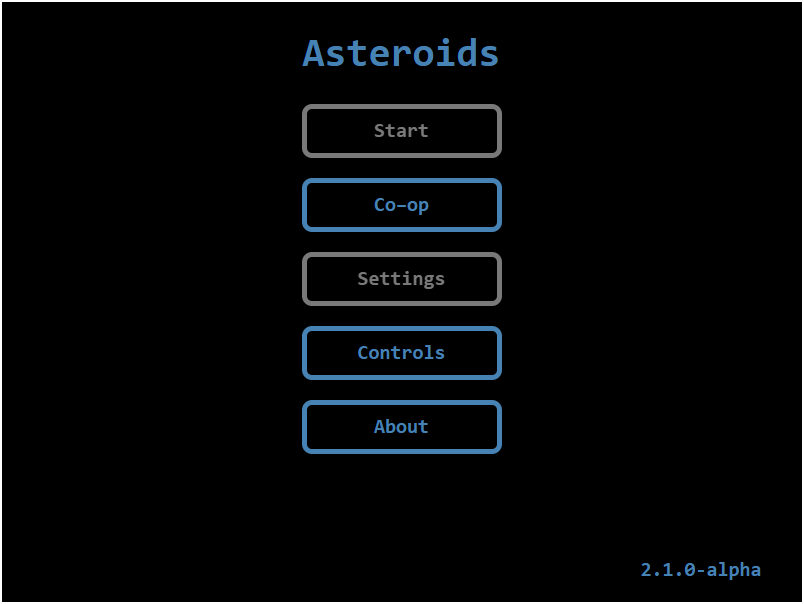
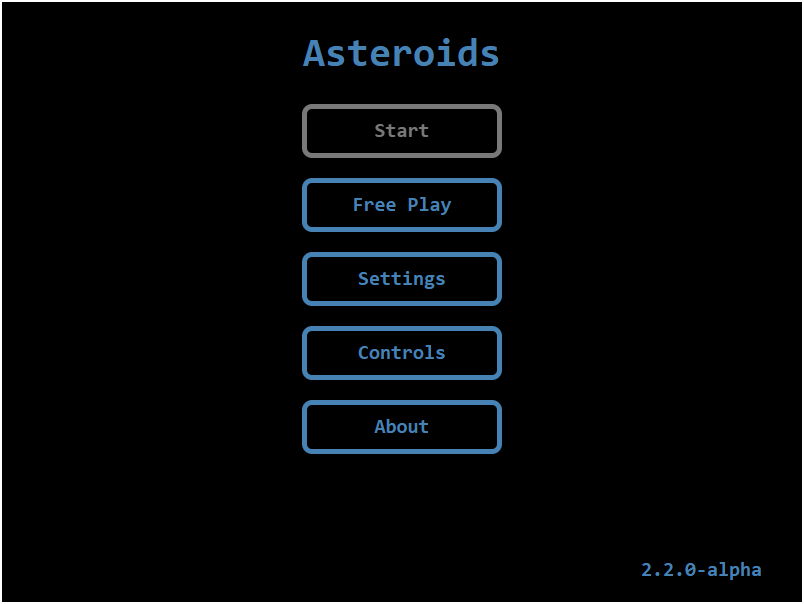
doc: update documentation and version

diff --git a/src/main.js b/src/main.js
@@ -1,4 +1,4 @@
-const VERSION = '2.1.0-alpha';
+const VERSION = '2.2.0-alpha';
 let INPUT = null;
 let GAME = null;
 

diff --git a/docs/todo.md b/docs/todo.md
@@ -7,13 +7,18 @@
 - [ ] sounds
 - [ ] missions/objectives
 - [ ] game over screen
-- [ ] add licence
+- [ ] add license
 - [ ] add analitics (count views)?
 - [ ] favicon
+- [ ] canvas layers
+  - [ ] sort entities/separated collections
+  - [ ] player ships allways on top (draw last)
+- [ ] handle redirects (links) in router (a > button)
 
 ## Refactor
 
 - [x] paths/files namings
+- [x] game scene into grid layout, delete z-indexes reorder layers (besides dialog)
 - [ ] decision:
   - [ ] split entities to separate files - asteroids/rockets/ships
   - [ ] keep entities in one file and rename it
@@ -23,9 +28,9 @@
 - [ ] error handling
 - [ ] refactor router, switch to classes
 - [ ] refactor game and input, declare as consts and init via initGame()
-- [ ] game scene into grid layout, delete z-indexes reorder layers (besides dialog)
 
 ## Fix
 
 - [ ] rocket glitch before disapear
 - [ ] upward movement not affected by innertia
+- [ ] canvas behind backgrounds (caused by new stacking context from css animation)

diff --git a/docs/changelog.md b/docs/changelog.md
@@ -2,6 +2,17 @@
 
 <!-- Added, Changed, Fixed, Removed -->
 
+## [2.2.0-alpha] – 20.10.2025
+
+### Added
+
+- "Run in window" – new button for opening the game in a separate window
+
+### Changed
+
+- About description – replaced "lorem ipsum" placeholder with a simple description
+- "Co-op" to "Free play" – button text better communicates intent
+
 ## [2.1.0-alpha] – 03.10.2025
 
 ### Added

diff --git a/readme.md b/readme.md
@@ -33,7 +33,7 @@ Click to view full size:
 ## Versioning
 
 This project tries to apply [Semantic Versioning](https://semver.org/).\
-Current version: `2.1.0-alpha`\
+Current version: `2.2.0-alpha`\
 See [Changelog.md](docs/changelog.md) for project history
 
 # Roadmap
